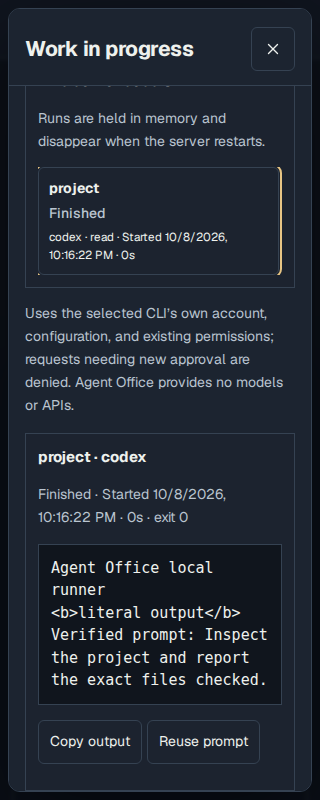
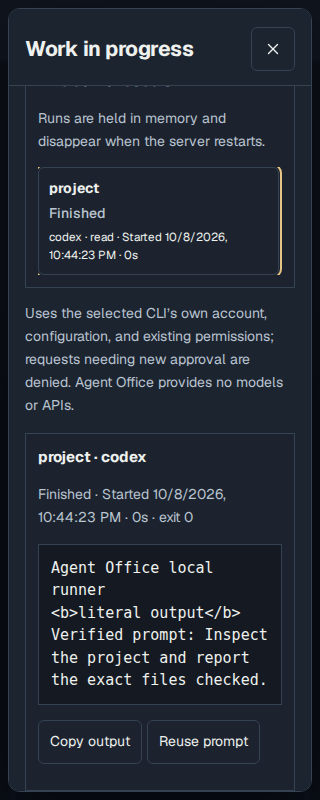
fix: recover task worker startup failures and clarify controls
Reproduce and recover worker and stdin-pump startup failures without leaking admission or child processes. Report failed acknowledgements truthfully, separate form feedback, use theme colors, and document Windows cleanup limits with reviewed source references.

Validation: 579 Python, 101 Node, and 209 browser tests passed; one optional private-art case skipped. Syntax, formatting, and static builds passed.

Changed region(s): [[0.1562, 0.625, 0.625, 0.6562], [0.1875, 0.3125, 0.4375, 0.3438]]

diff --git a/web/js/task-runner.js b/web/js/task-runner.js
@@ -169,7 +169,7 @@
       setText(
         formStatus,
         formFeedback && issue
-          ? `${formFeedback} ${issue}`
+          ? `${formFeedback}\n${issue}`
           : formFeedback || issue,
       );
     if (draftRun) draftRun.disabled = !draft?.value.trim();
@@ -541,7 +541,11 @@
       renderRuns();
       selectRun(run.id);
       formFeedback =
-        "Run started. This is a new CLI process, separate from existing observed sessions.";
+        run.status === "running"
+          ? "Run started. This is a new CLI process, separate from existing observed sessions."
+          : run.status === "failed"
+            ? `${run.exit_code == null ? "Run could not start" : "Run failed"}. Review the run details before retrying.`
+            : `Run ${statusLabel(run.status).toLowerCase()}. Review its output and status before starting another task.`;
       setText(formStatus, formFeedback);
     } catch (error) {
       const uncertain = !error.status || error.name === "AbortError";

diff --git a/web/css/task-runner.css b/web/css/task-runner.css
@@ -95,11 +95,15 @@
   overflow: auto;
   padding: 0.75rem;
   border: 1px solid var(--line);
-  background: #10151d;
+  background: var(--bg);
   color: var(--ink);
   white-space: pre-wrap;
   overflow-wrap: anywhere;
   tab-size: 2;
+}
+
+#task-run-form-status {
+  white-space: pre-line;
 }
 
 .task-run-enable code {

diff --git a/tests/test_task_runner.py b/tests/test_task_runner.py
@@ -4,7 +4,9 @@ from __future__ import annotations
 import json
 import os
 from pathlib import Path
+import subprocess
 import sys
+import threading
 import time
 import uuid
 
@@ -129,6 +131,117 @@ def test_failure_launch_error_and_bounded_output(runner):
     assert launch["status"] == "failed"
     assert launch["exit_code"] is None
     assert launch["error"].startswith("could not start codex CLI:")
+
+
+def test_worker_start_failure_is_terminal_idempotent_and_releases_admission(runner, monkeypatch):
+    original_start = threading.Thread.start
+    failed_threads = []
+    children = []
+    original_popen = subprocess.Popen
+
+    def start(thread):
+        if thread.name.startswith("task-run-") and not failed_threads:
+            failed_threads.append(thread)
+            raise RuntimeError("worker thread unavailable")
+        return original_start(thread)
+
+    def popen(*args, **kwargs):
+        process = original_popen(*args, **kwargs)
+        children.append(process)
+        return process
+
+    monkeypatch.setattr(threading.Thread, "start", start)
+    monkeypatch.setattr(subprocess, "Popen", popen)
+    payload = _payload(prompt="worker cannot start")
+    try:
+        created, is_new = runner.create(payload)
+        failed = created["run"]
+        assert is_new is True
+        assert failed["status"] == "failed"
+        assert failed["finished_at"] is not None
+        assert failed["exit_code"] is None
+        assert failed["error"] == "could not start task worker: worker thread unavailable"
+        assert children == []
+        assert runner._threads == set()
+        assert failed_threads[0].ident is None
+
+        repeated, is_new = runner.create(dict(payload))
+        assert is_new is False
+        assert repeated["run"] == failed
+
+        # Both global slots and the failed run's workspace remain available.
+        first, _ = runner.create(_payload(prompt="sleep", workspace_id="w1"))
+        second, _ = runner.create(_payload(prompt="sleep", workspace_id="w2"))
+        runner.cancel(first["run"]["id"])
+        runner.cancel(second["run"]["id"])
+        assert _finished(runner, first["run"]["id"])["status"] == "cancelled"
+        assert _finished(runner, second["run"]["id"])["status"] == "cancelled"
+        runner.shutdown(timeout=3)
+        assert runner._threads == set()
+    finally:
+        # A regression must not make fixture teardown join an unstarted thread.
+        for thread in failed_threads:
+            if thread.ident is None:
+                runner._threads.discard(thread)
+
+
+def test_stdin_start_failure_terminates_and_reaps_child_before_releasing_workspace(runner, monkeypatch):
+    original_start = threading.Thread.start
+    original_popen = subprocess.Popen
+    failed_threads = []
+    worker_threads = []
+    children = []
+
+    def start(thread):
+        if thread.name.startswith("task-stdin-") and not failed_threads:
+            failed_threads.append(thread)
+            raise RuntimeError("stdin thread unavailable")
+        if thread.name.startswith("task-run-"):
+            worker_threads.append(thread)
+        return original_start(thread)
+
+    def popen(*args, **kwargs):
+        process = original_popen(*args, **kwargs)
+        children.append(process)
+        return process
+
+    monkeypatch.setattr(threading.Thread, "start", start)
+    monkeypatch.setattr(subprocess, "Popen", popen)
+    payload = _payload(prompt="stdin cannot start")
+    try:
+        created, _ = runner.create(payload)
+        worker_threads[0].join(timeout=5)
+        assert not worker_threads[0].is_alive()
+        failed = runner.detail(created["run"]["id"])["run"]
+        assert failed["status"] == "failed"
+        assert failed["finished_at"] is not None
+        assert failed["error"] == "could not run codex CLI: stdin thread unavailable"
+        assert len(children) == 1
+        process = children[0]
+        # returncode is set by the runner's reap; this assertion cannot reap it.
+        assert process.returncode is not None and process.returncode != 0
+        assert failed["exit_code"] == process.returncode
+        assert process.stdin.closed and process.stdout.closed
+        assert runner._runs[failed["id"]]["process"] is None
+        assert runner._threads == set()
+        assert failed_threads[0].ident is None
+
+        repeated, is_new = runner.create(dict(payload))
+        assert is_new is False
+        assert repeated["run"] == {key: value for key, value in failed.items() if key != "output"}
+        recovered, _ = runner.create(_payload(prompt="workspace released"))
+        assert _finished(runner, recovered["run"]["id"])["status"] == "succeeded"
+        runner.shutdown(timeout=3)
+        assert runner._threads == set()
+    finally:
+        # Reap the fixture child even when the lifecycle regression reappears.
+        for process in children:
+            if process.poll() is None:
+                process.kill()
+            process.wait(timeout=3)
+            for stream in (process.stdin, process.stdout):
+                if stream is not None:
+                    stream.close()
 
 
 def test_request_id_is_idempotent_but_cannot_name_different_content(runner):

diff --git a/task_runner.py b/task_runner.py
@@ -180,7 +180,13 @@ class TaskRunner:
                 target=self._execute, args=(run_id,), name=f"task-run-{run_id[:8]}", daemon=True
             )
             self._threads.add(thread)
-            thread.start()
+            try:
+                thread.start()
+            except (OSError, RuntimeError) as exc:
+                self._threads.discard(thread)
+                run["error"] = f"could not start task worker: {exc}"
+                self._mark_stopped(run, "failed")
+                self._prune_locked()
             return {"run": self._summary(run)}, True
 
     def cancel(self, run_id: str) -> Dict[str, Any]:
@@ -266,7 +272,7 @@ class TaskRunner:
         process = None
         stdin_thread = None
         exit_code = None
-        launch_error = None
+        execution_error = None
         try:
             process = subprocess.Popen(
                 command,
@@ -293,10 +299,11 @@ class TaskRunner:
                     except (BrokenPipeError, OSError, ValueError):
                         pass
 
-                stdin_thread = threading.Thread(
+                stdin_worker = threading.Thread(
                     target=write_stdin, name=f"task-stdin-{run_id[:8]}", daemon=True
                 )
-                stdin_thread.start()
+                stdin_worker.start()
+                stdin_thread = stdin_worker
             if process.stdout is not None:
                 while True:
                     chunk = os.read(process.stdout.fileno(), 65536)
@@ -310,10 +317,16 @@ class TaskRunner:
                         if len(chunk) > remaining:
                             self._runs[run_id]["output_truncated"] = True
             exit_code = process.wait()
-        except (OSError, ValueError, subprocess.SubprocessError) as exc:
-            launch_error = f"could not start {run['runtime']} CLI: {exc}"
+        except (OSError, ValueError, RuntimeError, subprocess.SubprocessError) as exc:
+            action = "start" if process is None else "run"
+            execution_error = f"could not {action} {run['runtime']} CLI: {exc}"
         finally:
             if process is not None:
+                if exit_code is None:
+                    # Reap a launched child before publishing failure or
+                    # releasing admission, including stdin worker failures.
+                    self._terminate_process(process)
+                    exit_code = process.wait()
                 if stdin_thread is not None:
                     stdin_thread.join(timeout=1)
                 for stream in (process.stdin, process.stdout):
@@ -330,8 +343,8 @@ class TaskRunner:
                     self._mark_stopped(run, "interrupted")
                 elif run["cancel_requested"]:
                     self._mark_stopped(run, "cancelled")
-                elif launch_error is not None:
-                    run["error"] = launch_error
+                elif execution_error is not None:
+                    run["error"] = execution_error
                     self._mark_stopped(run, "failed")
                 elif exit_code == 0:
                     self._mark_stopped(run, "succeeded")
@@ -391,6 +404,8 @@ class TaskRunner:
             except (OSError, subprocess.TimeoutExpired):
                 pass
             return
+        # Windows console-group delivery is best-effort; terminate/kill
+        # fallbacks affect only the leader. See docs/local-task-runner.md.
         try:
             os.kill(process.pid, signal.CTRL_BREAK_EVENT)
         except OSError:

diff --git a/docs/audit/README.md b/docs/audit/README.md
@@ -72,9 +72,9 @@ The current validation used Python **3.12.14**, Node **24.19.0**, and Chromium
 
 | Command or flow | Result |
 | --- | --- |
-| `GEMINI_TEST_CLI=... python -m pytest -v -o addopts='' --junitxml=reports/local-runs-python.xml` | **577 passed**, including both native Gemini fixture cases; 33.69 seconds |
+| `GEMINI_TEST_CLI=... python -m pytest -v -o addopts='' --junitxml=reports/local-runs-review-python.xml` | **579 passed**, including both native Gemini fixture cases; 35.83 seconds |
 | `npm test` | **101 passed** |
-| `npm run test:browser` | **208 passed**, 0 failed, 1 optional private-art check skipped; 153.98 seconds |
+| `npm run test:browser` | **209 passed**, 0 failed, 1 optional private-art check skipped; 129.50 seconds |
 | `npm run check` | Passed |
 | `npm run format:check` and `git diff --check` | Passed |
 | `npm run build:preview` | Built **104 public demo files** and **20 product-site files**; no local office data or private aquarium sheets |
@@ -117,11 +117,30 @@ Interactive PTYs, attaching to existing sessions, answering permission prompts,
 durable scheduling, and orchestration are outside this implementation. These
 limits are also recorded in the [runner guide](../local-task-runner.md).
 
-The complete browser run contained 209 cases. Its one skip is the existing
+The complete browser run contained 210 cases. Its one skip is the existing
 optional private Smallburg artwork check; the public artwork and missing-pack
 fallback paths passed. All new runner and console cases ran. The CI workflow
 includes the new runner suite through `npm run test:browser`; these results
 are local evidence, not a claim that the repository's disabled hosted CI ran.
+
+#### Review follow-up
+
+The published review prompted an additional fault-injection pass. Failure to
+start a task worker had consumed admission without creating a child; failure
+to start its stdin pump could abort cleanup by joining an unstarted thread.
+Both paths are now covered by regressions. Worker startup becomes a retained,
+idempotent failed run with a released slot. A started child is terminated and
+reaped before a pump failure is finalized. The browser reports an immediately
+failed acknowledgement without saying that a CLI started.
+
+| Review point | Decision and evidence |
+| --- | --- |
+| Windows descendants | Documented the best-effort boundary and possible surviving descendants in the [runner guide](../local-task-runner.md), with Microsoft and Python references. Console-group delivery can include descendants; the fallback does not guarantee their termination. Native Windows verification remains outstanding. |
+| Worker bookkeeping and resource failure | Fixed the reproduced startup paths, including terminal timestamps, idempotency, process reaping, closed pipes, released project/global admission, and a successful subsequent run. |
+| Duplicate Host fields | Kept the exact single-Host boundary. [RFC 9112 section 3.2](https://www.rfc-editor.org/rfc/rfc9112.html#section-3.2) requires rejection of duplicate Host field lines; allowing any matching value would weaken that boundary. |
+| HTTP timeout versus CLI startup | Kept the bounded HTTP timeout. Creation acknowledges the registered worker independently of CLI startup/output. The retained request ID and run-list polling recover a lost acknowledgement; timing out is not an instruction to cancel the user's task. |
+| Blocking output reads | Kept the blocking pipe read. It waits when the pipe is empty, as described by the [Linux pipe manual](https://man7.org/linux/man-pages/man7/pipe.7.html), and consumes available output without adding timer-based polling. |
+| Feedback and themes | Operation feedback and current validation now occupy separate lines. Output uses the selected theme's background variable. |
 
 ### Earlier arcade, aquarium, and room update
 

diff --git a/docs/local-task-runner.md b/docs/local-task-runner.md
@@ -49,16 +49,31 @@ the output and inspect the project changes to verify the task's outcome.
 A CLI can describe a permission denial or an incomplete task even when its
 process returns successfully.
 
-**Cancel** sends termination to the run's process group and escalates if it
-does not exit. On POSIX this also stops descendants that remain in that group,
+On POSIX, **Cancel** sends termination to the run's process group and escalates
+if the group does not exit. This also stops descendants that remain in that group,
 including a child that still holds the captured output pipe after the original
-CLI process exits. A run remains **Running** until its process is reaped and
-the output pipe closes, then becomes **Cancelled**; this keeps the project slot
-occupied while cleanup is still in progress. A descendant that deliberately
-detaches into a different process group is outside this cleanup boundary. Cancellation
-does not revert file changes, recall requests already accepted by a provider,
-or stop an agent launched separately from the run. Reuse a previous prompt to
-prepare a new run; starting the new run remains an explicit action.
+CLI process exits. A descendant that deliberately detaches into a different
+process group is outside this cleanup boundary.
+
+On Windows, cancellation cleanup is **best-effort**. The runner starts a new
+process group and sends `CTRL_BREAK_EVENT`, which can reach descendants in that
+group only when they share the server's console; see Microsoft's
+[console-event scope](https://learn.microsoft.com/en-us/windows/console/generateconsolectrlevent).
+The fallback uses Python's
+[`terminate()` / `kill()`](https://docs.python.org/3/library/subprocess.html#subprocess.Popen.terminate)
+on the launched CLI process. Windows
+[process termination does not terminate child processes](https://learn.microsoft.com/en-us/windows/win32/procthread/terminating-a-process),
+so this does not guarantee descendant cleanup.
+
+After cancellation, a run remains **Running** until its process is reaped and
+the captured output reaches end-of-file, then becomes **Cancelled**; this keeps
+the project slot occupied while cleanup is still in progress. A surviving
+Windows descendant can keep that run and slot active by retaining a write
+handle to the captured output pipe; the pipe cannot reach end-of-file until
+[all its write handles close](https://learn.microsoft.com/en-us/windows/win32/ipc/anonymous-pipe-operations).
+Cancellation does not revert file changes, recall requests already accepted by
+a provider, or stop an agent launched separately from the run. Reuse a previous
+prompt to prepare a new run; starting the new run remains an explicit action.
 
 The runner permits at most two simultaneous runs and one per resolved project
 path. These are process admission limits, not file locks on tools launched
@@ -110,8 +125,9 @@ They exercise HTTP admission, prompt delivery, output, failure, cancellation,
 duplicate requests, and project concurrency without using a provider account.
 Those checks establish the runner's behavior, not that an installed Codex or
 Claude session completed a real provider-backed task on your computer.
-Process-group cleanup has been exercised on POSIX. The Windows signal path
-has not been exercised in a native Windows host for this update.
+Process-group cleanup has been exercised on POSIX. Windows cancellation,
+including console-event delivery and descendant cleanup, has not been exercised
+on a native Windows host for this update.
 
 Full interactive terminals, attaching to existing sessions, responding to
 their questions, cross-CLI conversation transfer, persistent task scheduling,
